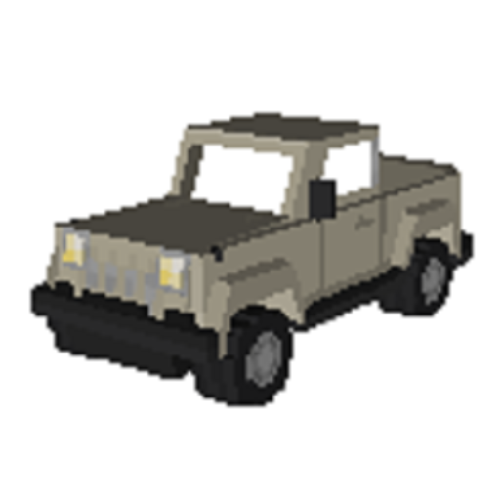
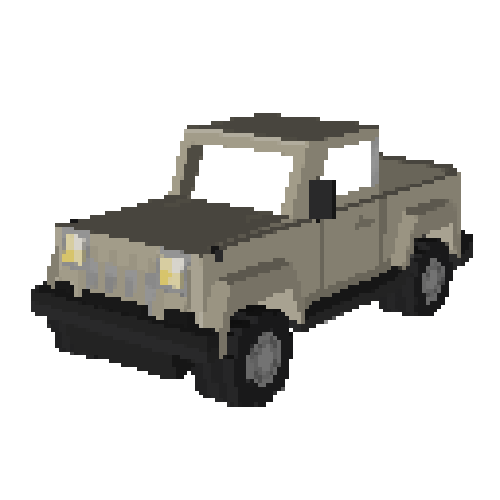
Wiki items aesthetics
Swapped out old item images with updated versions.
Added animal net image, eventually to be added to items wiki page.
Testing how to show recipes (hopefully in a really nice way).

diff --git a/wiki/items.html b/wiki/items.html
@@ -62,7 +62,13 @@
                             
                           <div class="col-sm-6 col-md-4">
                             <div class="thumbnail">
-                              <img src="images/items/ape_vial.png" alt="" width="200px">
+                              <label><input type="checkbox"/>
+								<div class="card">
+									<div class="front">
+									  <img src="images/items/ape_vial.png" alt="vials image" width="200px"></div>
+									<div class="back">
+									  recipe image</div>
+								</div></label>
                               <div class="caption">
                                   <h1>Breeding Vials</h1>
                                   <p>The breeding vials can be used to breed two tamed ZAWA animals, to find out what vial the animal will require use the Data Book.</p>
@@ -73,7 +79,13 @@
                             
                           <div class="col-sm-6 col-md-4">
                             <div class="thumbnail">
-                              <img src="images/items/atv.png" alt="" width="200px">
+                              <label><input type="checkbox"/>
+                                <div class="card">
+                                    <div class="front">
+                                      <img src="images/items/atv.png" alt="atv image" width="200px"></div>
+                                    <div class="back">
+                                      recipe image</div>
+                                </div></label>
                               <div class="caption">
                                   <h1>Animal Transport Vehicle</h1>
                                   <p>The A.T.V. can either be used as a standard vehicle or you can interact click the vehicle with a animal net to transport the animal in the net around in style.</p>
@@ -83,7 +95,13 @@
                             
                             <div class="col-sm-6 col-md-4">
                             <div class="thumbnail">
-                              <img src="images/items/ball.png" alt="" width="200px">
+                              <label><input type="checkbox"/>
+								<div class="card">
+                                    <div class="front">
+                                      <img src="images/items/ball.png" alt="ball image" width="200px"></div>
+                                    <div class="back">
+                                      recipe image</div>
+                                </div></label>
                               <div class="caption">
                                   <h1>Animal Ball</h1>
                                   <p>A basic enrichment toy that all animals in ZAWA can use.</p>

diff --git a/assets/css/main.css b/assets/css/main.css
@@ -2292,6 +2292,56 @@
 				width: 100%;
 			}
 
+/* Card Flip */
+	label {
+		-webkit-perspective: 1000px;
+		perspective: 1000px;
+		-webkit-transform-style: preserve-3d;
+		transform-style: preserve-3d;
+		display: inline-block;
+		width: 300px;
+		height: 200px;
+		position: relative;
+		cursor: pointer;
+	}
+
+		.card {
+			position: relative;
+			height: 100%;
+			width: 100%;
+			-webkit-transform-style: preserve-3d;
+			transform-style: preserve-3d;
+			-webkit-transition: all 600ms;
+			transition: all 600ms;
+		}
+
+			.card div {
+				position: absolute;
+				height: 100%;
+				width: 100%;
+				background: transparent;
+				line-height: 200px;
+				-webkit-backface-visibility: hidden;
+				backface-visibility: hidden;
+				border-radius: 2px;
+			}
+
+			.card .back {
+				background: #222;
+				color: #000;
+				-webkit-transform: rotateY(180deg);
+				transform: rotateY(180deg);
+			}
+
+		input {
+			display: none;
+		}
+
+		:checked + .card {
+			transform: rotateY(180deg);
+			-webkit-transform: rotateY(180deg);
+		}
+
 /* List */
 
 	ol {
